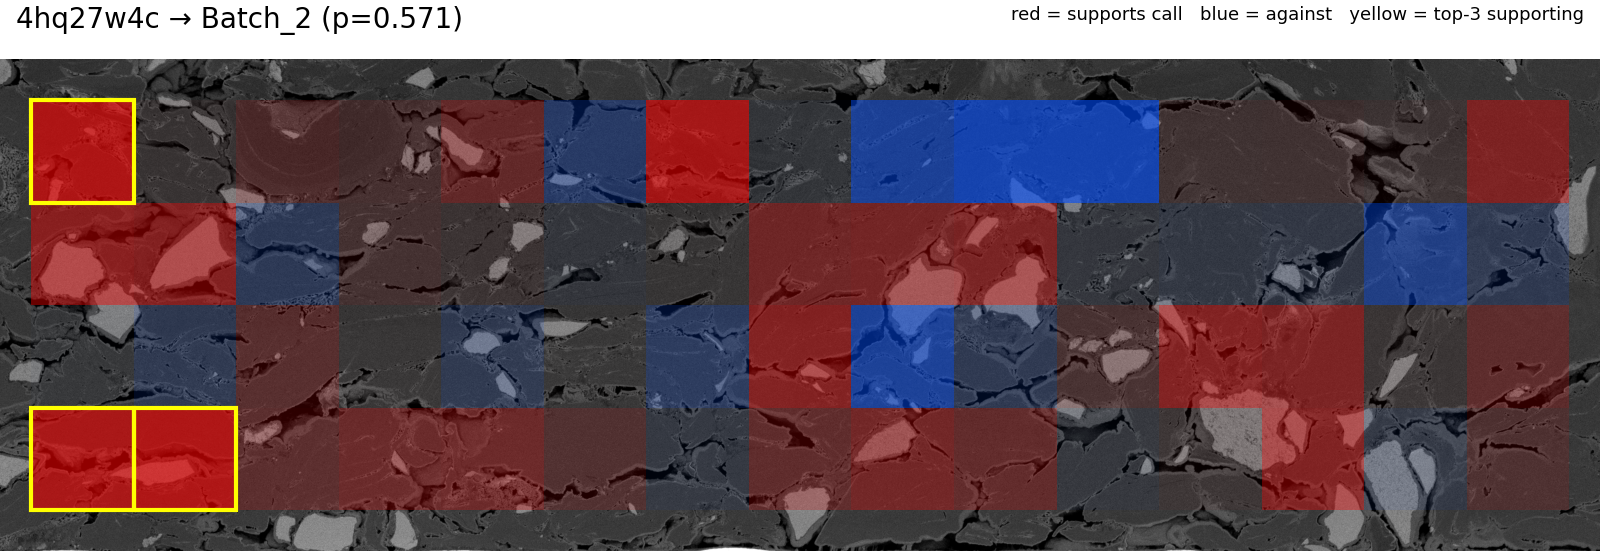
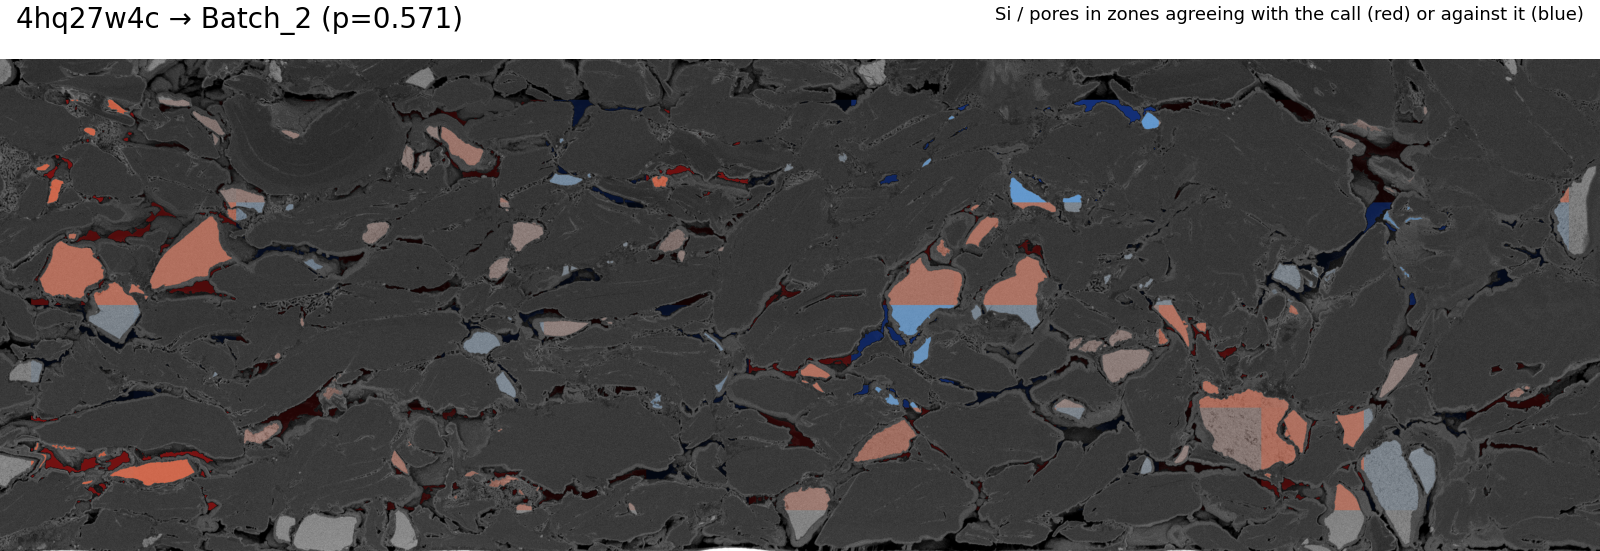
evidence maps: tint only Si and pore pixels by patch vote; fix TEST_PARENTS name

diff --git a/modal_patch_mil.py b/modal_patch_mil.py
@@ -451,10 +451,9 @@ def evidence_render(tag: str, labels: list[dict], targets: list[dict]) -> dict:
     matplotlib.use("Agg")
     import matplotlib.pyplot as plt
     import numpy as np
-    from matplotlib.patches import Rectangle
-
     from pmdb import patch_probe as pp
     from pmdb.io import load_site
+    from pmdb.segment import segment
 
     out_vol.reload()
     Xall = {r["site"]: _load_emb(tag, r["batch"], r["site"])[0] for r in labels}
@@ -476,15 +475,21 @@ def evidence_render(tag: str, labels: list[dict], targets: list[dict]) -> dict:
             hdr = 0.6
             fig = plt.figure(figsize=(16, 16 * h / w + hdr), dpi=100)
             ax = fig.add_axes([0, 0, 1, 1 - hdr / (16 * h / w + hdr)])
-            ax.imshow(bse, cmap="gray", vmin=0, vmax=1)
+            raw = load_site(t["batch"], t["site"], resolution="half", normalise="none", cache_root="/data/test")
+            m = segment(raw)
+            rgb = np.repeat(np.clip(bse, 0, 1)[..., None], 3, axis=2).astype(np.float64)
+            hexc = lambda c: np.array([int(c[i:i + 2], 16) for i in (1, 3, 5)]) / 255.0
+            cols = {True: (hexc("#e8603c"), hexc("#a01818")), False: (hexc("#5aa0e6"), hexc("#1a3f9e"))}
             for v, (_, _, y0, x0) in zip(vote, coords):
-                a = min(abs(v) / scale, 1.0) * 0.6
-                ax.add_patch(Rectangle((x0, y0), 224, 224, fc=(1, 0, 0) if v > 0 else (0, 0.3, 1), ec="none", alpha=a))
-            for i in np.argsort(-vote)[:3]:
-                ax.add_patch(Rectangle((coords[i][3], coords[i][2]), 224, 224, fc="none", ec="yellow", lw=3))
+                a = float(np.clip(abs(v) / scale, 0.15, 1.0)) * 0.75
+                sl = (slice(y0, min(y0 + 224, h)), slice(x0, min(x0 + 224, w)))
+                for mask, c in zip((m.si[sl], m.pore[sl]), cols[bool(v > 0)]):
+                    reg = rgb[sl]
+                    reg[mask] = (1 - a) * reg[mask] + a * c
+            ax.imshow(rgb)
             ax.axis("off")
             fig.text(0.01, 0.99, f"{t['site']} \u2192 {t['call']} (p={t['p']:.3f})", va="top", fontsize=20)
-            fig.text(0.99, 0.99, "red = supports call   blue = against   yellow = top-3 supporting", va="top", ha="right", fontsize=13)
+            fig.text(0.99, 0.99, "Si / pores in zones agreeing with the call (red) or against it (blue)", va="top", ha="right", fontsize=13)
             buf = io.BytesIO()
             fig.savefig(buf, format="png")
             plt.close(fig)
@@ -711,7 +716,7 @@ def _evidence(root: Path) -> None:
     lab["parent"] = lab["site"].map(pg)
     pr = pd.read_csv(root / "outputs" / "probe_explain" / "test_final_predictions.csv", dtype={"site": str}).set_index("site")
     targets = [{"batch": "Batch_test", "site": s, "parent": p, "call": pr.loc[s, "call"], "runner_up": pr.loc[s, "runner_up"],
-                "p": float(pr.loc[s, "p_" + pr.loc[s, "call"]])} for s, p in TEST_PARENTS.items()]
+                "p": float(pr.loc[s, "p_" + pr.loc[s, "call"]])} for s, p in EXPECTED_TEST_PARENTS.items()]
     res = evidence_render.remote("full", lab.to_dict("records"), targets)
     out = root / "demo" / "public" / "evidence"
     for s, b in res["pngs"].items():
